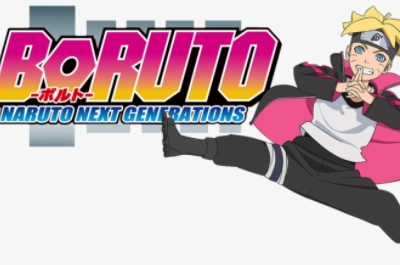
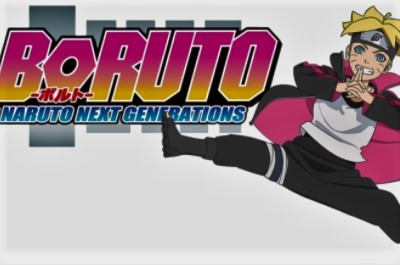
Mudança de Backgounds

diff --git a/projeto/index.html b/projeto/index.html
@@ -170,7 +170,7 @@
                 <!--/ Carousel item end -->
 
                 <div class="item">
-                    <img class="img-responsive" src="images/header-back.png" alt="slider">
+                    <img class="img-responsive" src="images/header-bg-2.jpg" alt="slider">
 
                     <div class="slider-content">
                         <div class="col-md-12 text-center">
@@ -186,7 +186,7 @@
                 <!--/ Carousel item end -->
 
                 <div class="item">
-                    <img class="img-responsive" src="images//galaxy.jpg" alt="slider">
+                    <img class="img-responsive" src="images/header-bg-3.jpg" alt="slider">
                     <div class="slider-content">
                         <div class="col-md-12 text-center">
                             <h1 class="animated2">
